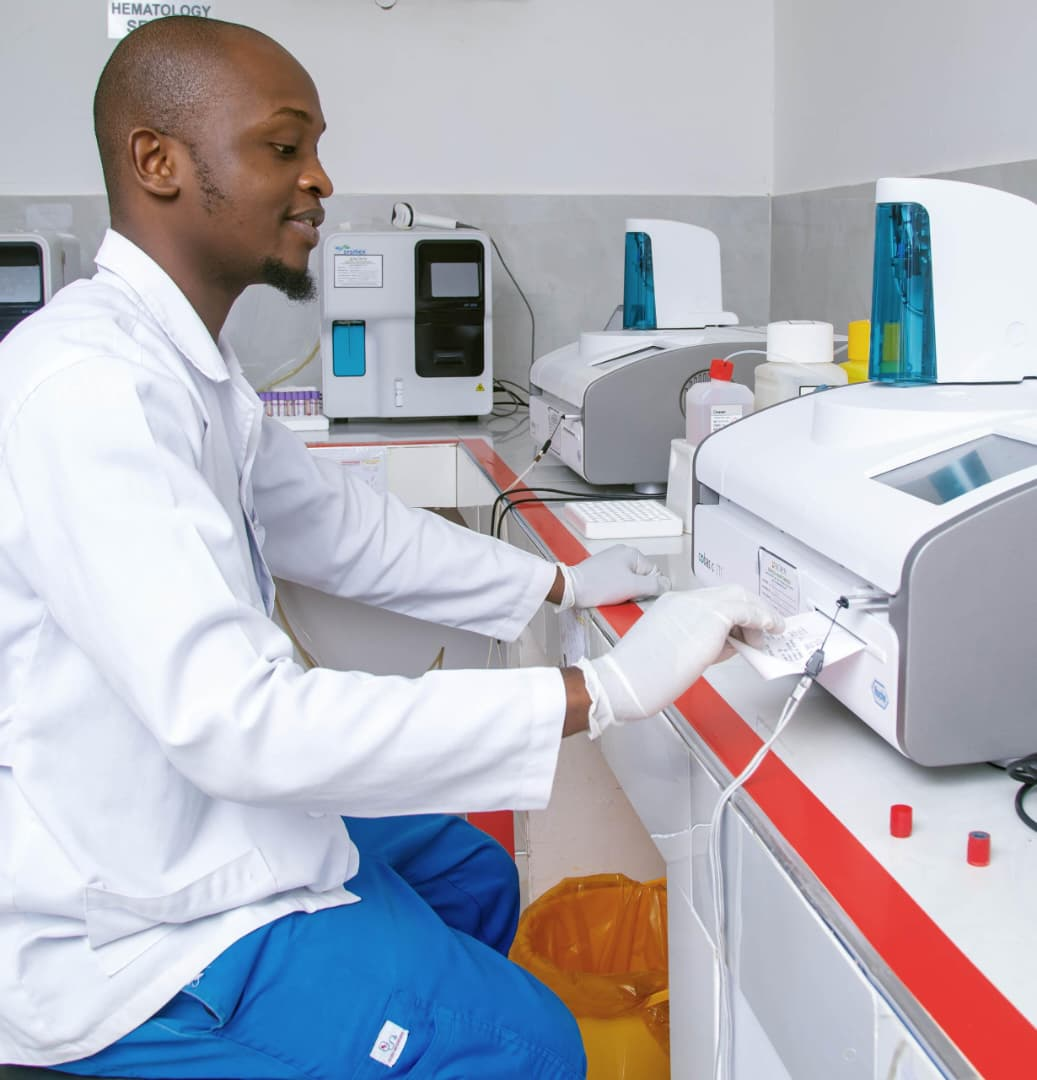
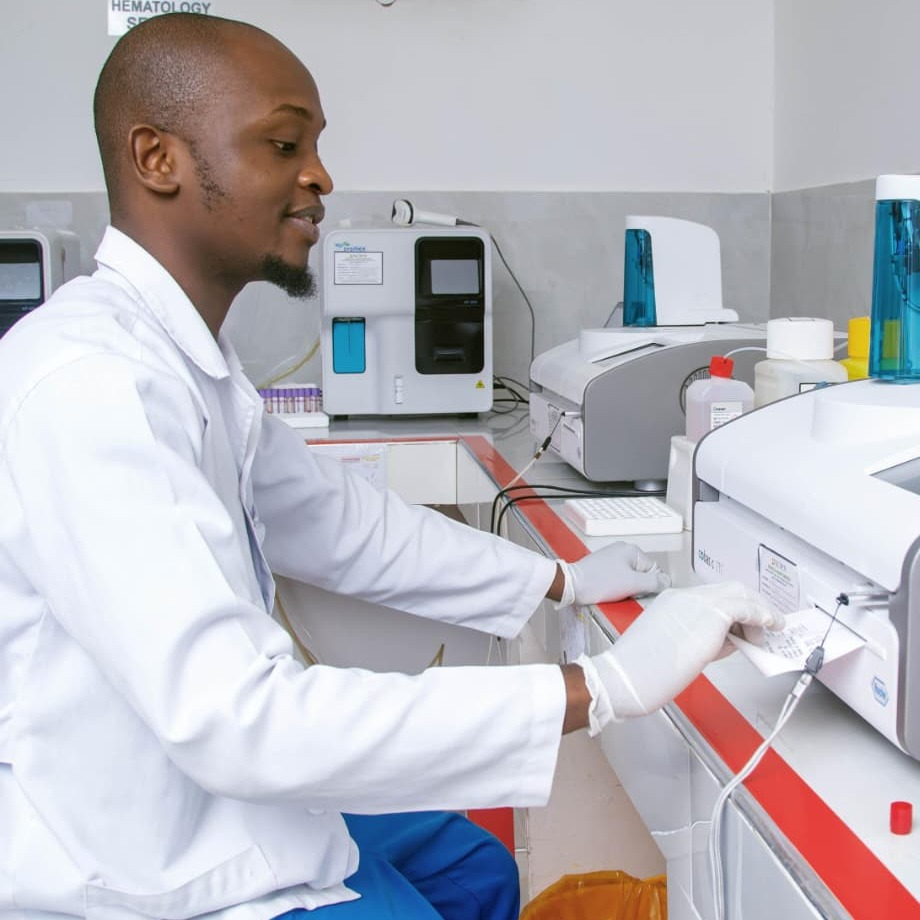
changes hero image #7

diff --git a/dentistry.html b/dentistry.html
@@ -275,7 +275,7 @@
             </ul>
         </div>
         <div class="d-image">
-            <img src="img/dentistry2.webp">
+            <video src="vids/dentistry.mp4" controls style="width: 550px; aspect-ratio: 1 / 1; object-fit: cover; border-radius: 20px;"></video>
         </div>
     </div>
 </section>

diff --git a/physiotherapy.html b/physiotherapy.html
@@ -209,7 +209,7 @@
             <p>You may be referred to a physiotherapist most commonly by your physician or you orthopaedic doctor.
                 Common conditions that are benefited by physiotherapy include neck or back pain, muscle tightness,
                 injuries to muscles or joints, etc.</p>
-            <img src="img/physio1.jpg" class="physioImg">
+            <img src="img/new-gallery/physio-2.jpg" class="physioImg">
         </div>
         <div class="form" id="pain-form">
             <form>

diff --git a/css/style.css b/css/style.css
@@ -2041,7 +2041,6 @@ font-size: 1.5em; /* Adjust tick size */
   position: relative;
   width: 90%;
   max-width: 1200px;
-  overflow: hidden;
   border-radius: 10px;
 }
 